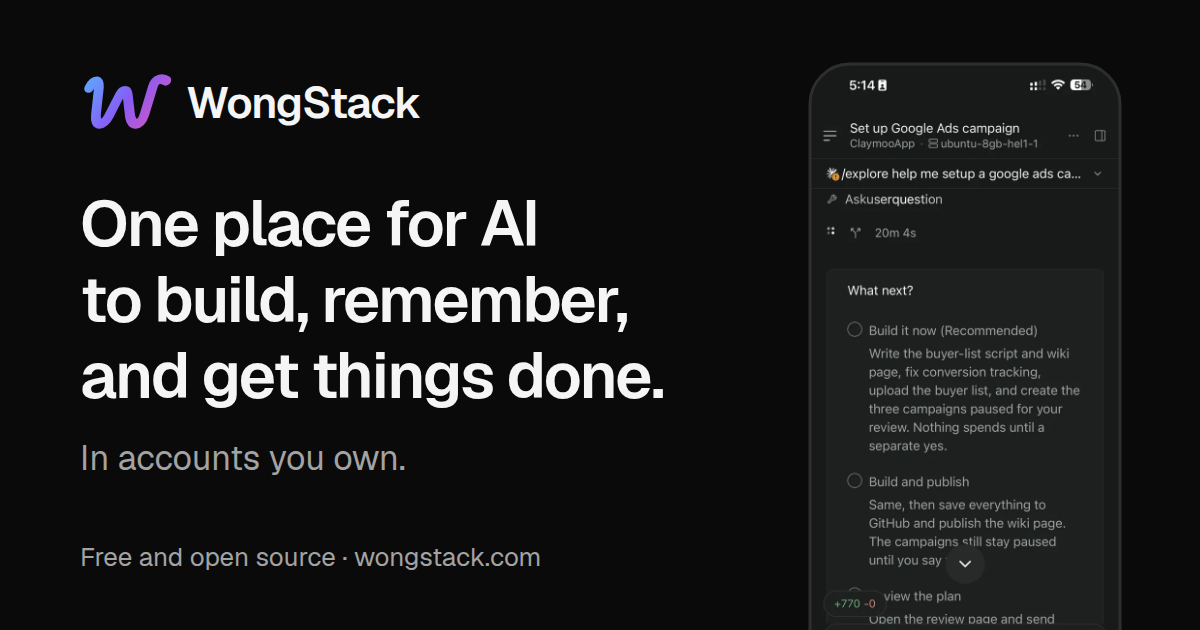
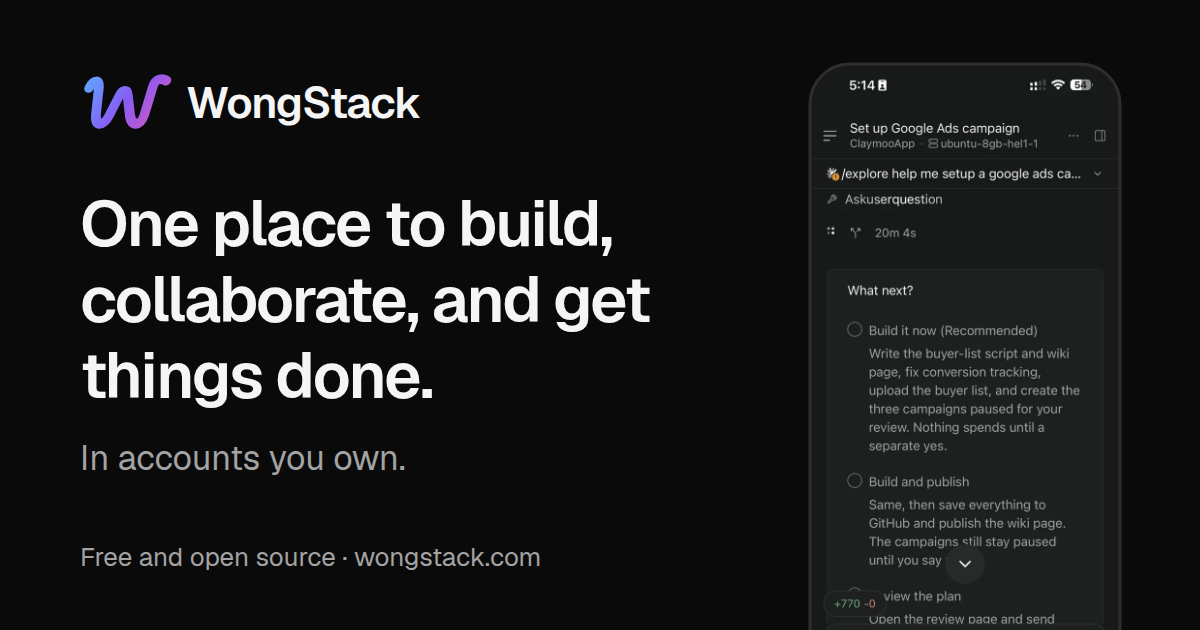
docs: the landing page headline reads "One place to build, collaborate, and get things done."

diff --git a/openspec/changes/tell-the-new-vision/review.html b/openspec/changes/tell-the-new-vision/review.html
@@ -128,13 +128,13 @@
 <span class="ln" data-note="item-2-line-5" tabindex="0">3 Answer questions      2 +Paste in a new chat</span>
 <span class="ln" data-note="item-2-line-6" tabindex="0">                        3 Answer questions</span></pre></div></details></li>
 <li class="item card" id="item-3"><span class="num">3</span><div class="body"><div class="text" data-note="item-3" tabindex="0"><b>The pages say plainly what still needs one of them.</b> Giving each assistant its own workspace, so several can work at once, needs the free Paseo app today; without it the parts of a request are done one at a time. Memory that loads by itself at the start of a chat is set up for Claude Code and Codex today; another assistant reads the same files and looks memory up when asked. Nothing claims more than that.</div></div></li>
-<li class="item card" id="item-4"><span class="num">4</span><div class="body"><div class="text" data-note="item-4" tabindex="0"><b>The landing page gets a new headline: &quot;One place for AI to build, remember, and get things done.&quot;</b> It no longer opens with &quot;Grok Bot, Muse, or Dots, but yours&quot;, and the text a shared link shows changes with it. The comparison table stays as it is.</div></div><details class="drawing"><summary><span class="show">Show drawing</span><span class="hide">Hide drawing</span><span class="count"></span></summary><div class="frame"><pre class="art">
+<li class="item card" id="item-4"><span class="num">4</span><div class="body"><div class="text" data-note="item-4" tabindex="0"><b>The landing page gets a new headline: &quot;One place to build, collaborate, and get things done.&quot;</b> It no longer opens with &quot;Grok Bot, Muse, or Dots, but yours&quot;, and the text a shared link shows changes with it. The comparison table stays as it is.</div></div><details class="drawing"><summary><span class="show">Show drawing</span><span class="hide">Hide drawing</span><span class="count"></span></summary><div class="frame"><pre class="art">
 <span class="ln" data-note="item-4-line-1" tabindex="0">  BEFORE                 AFTER</span>
 <span class="ln" data-note="item-4-line-2" tabindex="0">┌───────────────────┐  ┌────────────────────┐</span>
-<span class="ln" data-note="item-4-line-3" tabindex="0">│ Grok Bot ▲        │  │ +One place for AI  │</span>
-<span class="ln" data-note="item-4-line-4" tabindex="0">│ but yours.        │  │ +to build,         │</span>
-<span class="ln" data-note="item-4-line-5" tabindex="0">│                   │  │ +remember, and get │</span>
-<span class="ln" data-note="item-4-line-6" tabindex="0">│ You own it all... │  │ +things done.      │</span>
+<span class="ln" data-note="item-4-line-3" tabindex="0">│ Grok Bot ▲        │  │ +One place to      │</span>
+<span class="ln" data-note="item-4-line-4" tabindex="0">│ but yours.        │  │ +build,            │</span>
+<span class="ln" data-note="item-4-line-5" tabindex="0">│                   │  │ +collaborate, and  │</span>
+<span class="ln" data-note="item-4-line-6" tabindex="0">│ You own it all... │  │ +get things done.  │</span>
 <span class="ln" data-note="item-4-line-7" tabindex="0">│ [Install]         │  │ You own it all...  │</span>
 <span class="ln" data-note="item-4-line-8" tabindex="0">│ Supports Claude…  │  │ [Install]          │</span>
 <span class="ln" data-note="item-4-line-9" tabindex="0">│ ┌ app picture ──┐ │  │ ┌ app picture ───┐ │</span>
@@ -168,6 +168,8 @@
 <li class="decision card" id="decision-16" data-note="decision-16" tabindex="0"><p class="meta"><span class="tag log">log</span>2026-10-06</p>Built: task 2.7's search left no sentence telling a reader to get Claude Code or Paseo. Each remaining mention is a stated limit, an optional pointer, or a technical note on those two tools' own files.</li>
 <li class="decision card" id="decision-17" data-note="decision-17" tabindex="0"><p class="meta"><span class="tag log">log</span>2026-10-06</p>Timing: the site's tests and build (5.3) ran once, after all writing was done, with the local checks (5.2). Task 5.4 waits for the saved preview.</li>
 <li class="decision card" id="decision-18" data-note="decision-18" tabindex="0"><p class="meta"><span class="tag log">log</span>2026-10-06</p>Saved: everything is written and the checks on this computer pass; the two specs carry the new promises. The look at the saved landing page preview and the README on GitHub (task 5.4) is still to do.</li>
+<li class="decision card" id="decision-19" data-note="decision-19" tabindex="0"><p class="meta"><span class="tag log">log</span>2026-10-06</p>After seeing the preview, Matthew wrote &quot;Maybe remove for AI? And also change remember to collaborate&quot; → the landing page's headline and shared-link text read &quot;One place to build, collaborate, and get things done.&quot;</li>
+<li class="decision card" id="decision-20" data-note="decision-20" tabindex="0"><p class="meta"><span class="tag assumed">assumed</span>2026-10-06</p>Assumed: only the landing page's headline changes; the README and guides keep Build, Remember, Get things done, because that is the vision as agreed and the note was made on the preview.</li>
 </ol>
 </section>
 <section id="notes" aria-labelledby="notes-h"><h2 id="notes-h">Your notes</h2>

diff --git a/site/index.html b/site/index.html
@@ -5,7 +5,7 @@
     <link rel="icon" type="image/svg+xml" href="/favicon.svg" />
     <meta name="viewport" content="width=device-width, initial-scale=1.0" />
     <title>WongStack</title>
-    <meta name="description" content="One place for AI to build, remember, and get things done, in accounts you own. Free and open source." />
+    <meta name="description" content="One place to build, collaborate, and get things done, in accounts you own. Free and open source." />
     <!-- One indexed address, whichever preview or workers.dev address served the page. -->
     <link rel="canonical" href="https://wongstack.com/" />
     <!-- The card a shared link shows. site/public/share.png is drawn from site/brand/share-image.svg. -->
@@ -13,14 +13,14 @@
     <meta property="og:site_name" content="WongStack" />
     <meta property="og:url" content="https://wongstack.com/" />
     <meta property="og:title" content="WongStack" />
-    <meta property="og:description" content="One place for AI to build, remember, and get things done, in accounts you own. Free and open source." />
+    <meta property="og:description" content="One place to build, collaborate, and get things done, in accounts you own. Free and open source." />
     <meta property="og:image" content="https://wongstack.com/share.png" />
     <meta property="og:image:width" content="1200" />
     <meta property="og:image:height" content="630" />
-    <meta property="og:image:alt" content="The WongStack logo beside a phone running it, with the line: One place for AI to build, remember, and get things done. In accounts you own." />
+    <meta property="og:image:alt" content="The WongStack logo beside a phone running it, with the line: One place to build, collaborate, and get things done. In accounts you own." />
     <meta name="twitter:card" content="summary_large_image" />
     <meta name="twitter:title" content="WongStack" />
-    <meta name="twitter:description" content="One place for AI to build, remember, and get things done, in accounts you own. Free and open source." />
+    <meta name="twitter:description" content="One place to build, collaborate, and get things done, in accounts you own. Free and open source." />
     <meta name="twitter:image" content="https://wongstack.com/share.png" />
   </head>
   <body>

diff --git a/site/src/shareCard.test.ts b/site/src/shareCard.test.ts
@@ -9,7 +9,7 @@ import { expect, it } from "vitest";
 
 const site = (path: string) => resolve(import.meta.dirname, "..", path);
 const html = readFileSync(site("index.html"), "utf8");
-const LINE = "One place for AI to build, remember, and get things done, in accounts you own. Free and open source.";
+const LINE = "One place to build, collaborate, and get things done, in accounts you own. Free and open source.";
 
 const tags = Object.fromEntries(
   [...html.matchAll(/<meta (?:name|property)="(description|og:[^"]+|twitter:[^"]+)" content="([^"]*)"/g)].map(
@@ -28,7 +28,7 @@ it("gives every shared link the WongStack title, line, and picture", () => {
     "og:image": "https://wongstack.com/share.png",
     "og:image:width": "1200",
     "og:image:height": "630",
-    "og:image:alt": "The WongStack logo beside a phone running it, with the line: One place for AI to build, remember, and get things done. In accounts you own.",
+    "og:image:alt": "The WongStack logo beside a phone running it, with the line: One place to build, collaborate, and get things done. In accounts you own.",
     "twitter:card": "summary_large_image",
     "twitter:title": "WongStack",
     "twitter:description": LINE,

diff --git a/site/src/Site.test.tsx b/site/src/Site.test.tsx
@@ -107,7 +107,7 @@ it("shows a visitor on a phone the headline, the install steps, and the message 
   const { container } = render(<App />);
   const install = container.querySelector("#install") as HTMLElement;
 
-  screen.getByRole("heading", { level: 1, name: "One place for AI to build, remember, and get things done." });
+  screen.getByRole("heading", { level: 1, name: "One place to build, collaborate, and get things done." });
   // The first step says any assistant before it names one.
   expect(install.querySelector("ol.install > li")?.textContent).toMatch(
     /^Open any assistant that can work on your computer, such as /,

diff --git a/site/src/Landing.tsx b/site/src/Landing.tsx
@@ -6,7 +6,7 @@ import { ACCOUNTS, ADD_ONS, AGENTS, INSTALL_PROMPT, REPO_URL, STEPS, computers, 
 import { InstallButton } from "./InstallButton";
 import { Bubbles, PaseoShot } from "./mockups";
 
-const HEADLINE = "One place for AI to build, remember, and get things done.";
+const HEADLINE = "One place to build, collaborate, and get things done.";
 const DESCRIPTION = "You own everything: your code, your apps, your data, and what it learns. Free and open source.";
 
 /** Under each Paseo screenshot: the pictures show one chat app, and none is needed. */

diff --git a/site/src/App.test.tsx b/site/src/App.test.tsx
@@ -17,7 +17,7 @@ afterEach(() => {
   vi.unstubAllGlobals();
 });
 
-const HEADLINE = "One place for AI to build, remember, and get things done.";
+const HEADLINE = "One place to build, collaborate, and get things done.";
 const SHOWS_PASEO = "These screens show Paseo, the chat app I use. WongStack works wherever your assistant works.";
 const FOR_EVERYONE = "GitHub is for engineers. This is the next one, for everyone else.";
 const DESCRIPTION = "You own everything: your code, your apps, your data, and what it learns. Free and open source.";

diff --git a/openspec/changes/tell-the-new-vision/proposal.md b/openspec/changes/tell-the-new-vision/proposal.md
@@ -35,14 +35,14 @@ WongStack's front pages still describe an older idea of it, and they tell a newc
                           3 Answer questions
   ```
 - **The pages say plainly what still needs one of them.** Giving each assistant its own workspace, so several can work at once, needs the free Paseo app today; without it the parts of a request are done one at a time. Memory that loads by itself at the start of a chat is set up for Claude Code and Codex today; another assistant reads the same files and looks memory up when asked. Nothing claims more than that.
-- **The landing page gets a new headline: "One place for AI to build, remember, and get things done."** It no longer opens with "Grok Bot, Muse, or Dots, but yours", and the text a shared link shows changes with it. The comparison table stays as it is.
+- **The landing page gets a new headline: "One place to build, collaborate, and get things done."** It no longer opens with "Grok Bot, Muse, or Dots, but yours", and the text a shared link shows changes with it. The comparison table stays as it is.
   ```text
     BEFORE                 AFTER
   ┌───────────────────┐  ┌────────────────────┐
-  │ Grok Bot ▲        │  │ +One place for AI  │
-  │ but yours.        │  │ +to build,         │
-  │                   │  │ +remember, and get │
-  │ You own it all... │  │ +things done.      │
+  │ Grok Bot ▲        │  │ +One place to      │
+  │ but yours.        │  │ +build,            │
+  │                   │  │ +collaborate, and  │
+  │ You own it all... │  │ +get things done.  │
   │ [Install]         │  │ You own it all...  │
   │ Supports Claude…  │  │ [Install]          │
   │ ┌ app picture ──┐ │  │ ┌ app picture ───┐ │
@@ -96,3 +96,5 @@ None.
 - **2026-10-06** — Built: task 2.7's search left no sentence telling a reader to get Claude Code or Paseo. Each remaining mention is a stated limit, an optional pointer, or a technical note on those two tools' own files.
 - **2026-10-06** — Timing: the site's tests and build (5.3) ran once, after all writing was done, with the local checks (5.2). Task 5.4 waits for the saved preview.
 - **2026-10-06** — Saved: everything is written and the checks on this computer pass; the two specs carry the new promises. The look at the saved landing page preview and the README on GitHub (task 5.4) is still to do.
+- **2026-10-06** — After seeing the preview, Matthew wrote "Maybe remove for AI? And also change remember to collaborate" → the landing page's headline and shared-link text read "One place to build, collaborate, and get things done."
+- **2026-10-06** — Assumed: only the landing page's headline changes; the README and guides keep Build, Remember, Get things done, because that is the vision as agreed and the note was made on the preview.

diff --git a/openspec/changes/tell-the-new-vision/design.md b/openspec/changes/tell-the-new-vision/design.md
@@ -78,7 +78,7 @@ Left alone, each already neutral or a true limit: `wiki/agent-knowledge-center.m
 
 ### 4. The landing page
 
-- **Headline.** `Rotator.tsx` and its CSS (`.rotator*`, the `Grok Lookalike` font face, and `public/fonts/geist-grok.woff2` if nothing else uses it) are removed. The hero's `h1` is plain text: **One place for AI to build, remember, and get things done.** The lede under it keeps `DESCRIPTION` ("You own everything…"). The logos used only by the rotator stay if `compare.ts` uses them.
+- **Headline.** `Rotator.tsx` and its CSS (`.rotator*`, the `Grok Lookalike` font face, and `public/fonts/geist-grok.woff2` if nothing else uses it) are removed. The hero's `h1` is plain text: **One place to build, collaborate, and get things done.** The lede under it keeps `DESCRIPTION` ("You own everything…"). The logos used only by the rotator stay if `compare.ts` uses them.
 - **Shared-link text.** `site/index.html`'s description, `og:description`, `twitter:description`, and `og:image:alt` take the new line; `site/brand/share-image.svg`'s two text lines change and `site/public/share.png` is re-rendered from it by the SVG's own instructions (1200×630, under 300 KB).
 - **Install step.** In `install.ts`, `STEPS` reads "Open any assistant that can work on your computer, such as Claude Code or Codex": the neutral words first, the links after. `InstallSteps` in `Landing.tsx` follows the new order.
 - **Pictures.** A `note` line under the hero picture and in the phone tour: "These screens show Paseo, the chat app I use. WongStack works wherever your assistant works." Alt texts keep naming Paseo: they describe the picture.

diff --git a/openspec/changes/tell-the-new-vision/tasks.md b/openspec/changes/tell-the-new-vision/tasks.md
@@ -36,4 +36,4 @@ The source text and the table of what is true today are in design.md - Context. 
 - [x] 5.1 Run `openspec validate "tell-the-new-vision" --strict --no-interactive` and expect it valid.
 - [x] 5.2 Run `node .github/scripts/checks.mjs --worktree` and repair what fails: it covers the payload links, the OpenSpec config, the skills' text budget, the wiki checks, and `scripts/tests/landing-site.test.mjs`.
 - [x] 5.3 In `site/`, run `npm test` and `npm run build`; expect both to pass.
-- [ ] 5.4 After `/save`, open the landing page's own preview (the `landing-preview` status on the commit) at phone width and at desktop width: the headline fits without sideways scrolling, the note sits under each picture, and the first install step reads neutral words first. Open the README as GitHub renders it on the branch and read the first screen.
+- [x] 5.4 After `/save`, open the landing page's own preview (the `landing-preview` status on the commit) at phone width and at desktop width: the headline fits without sideways scrolling, the note sits under each picture, and the first install step reads neutral words first. Open the README as GitHub renders it on the branch and read the first screen.
